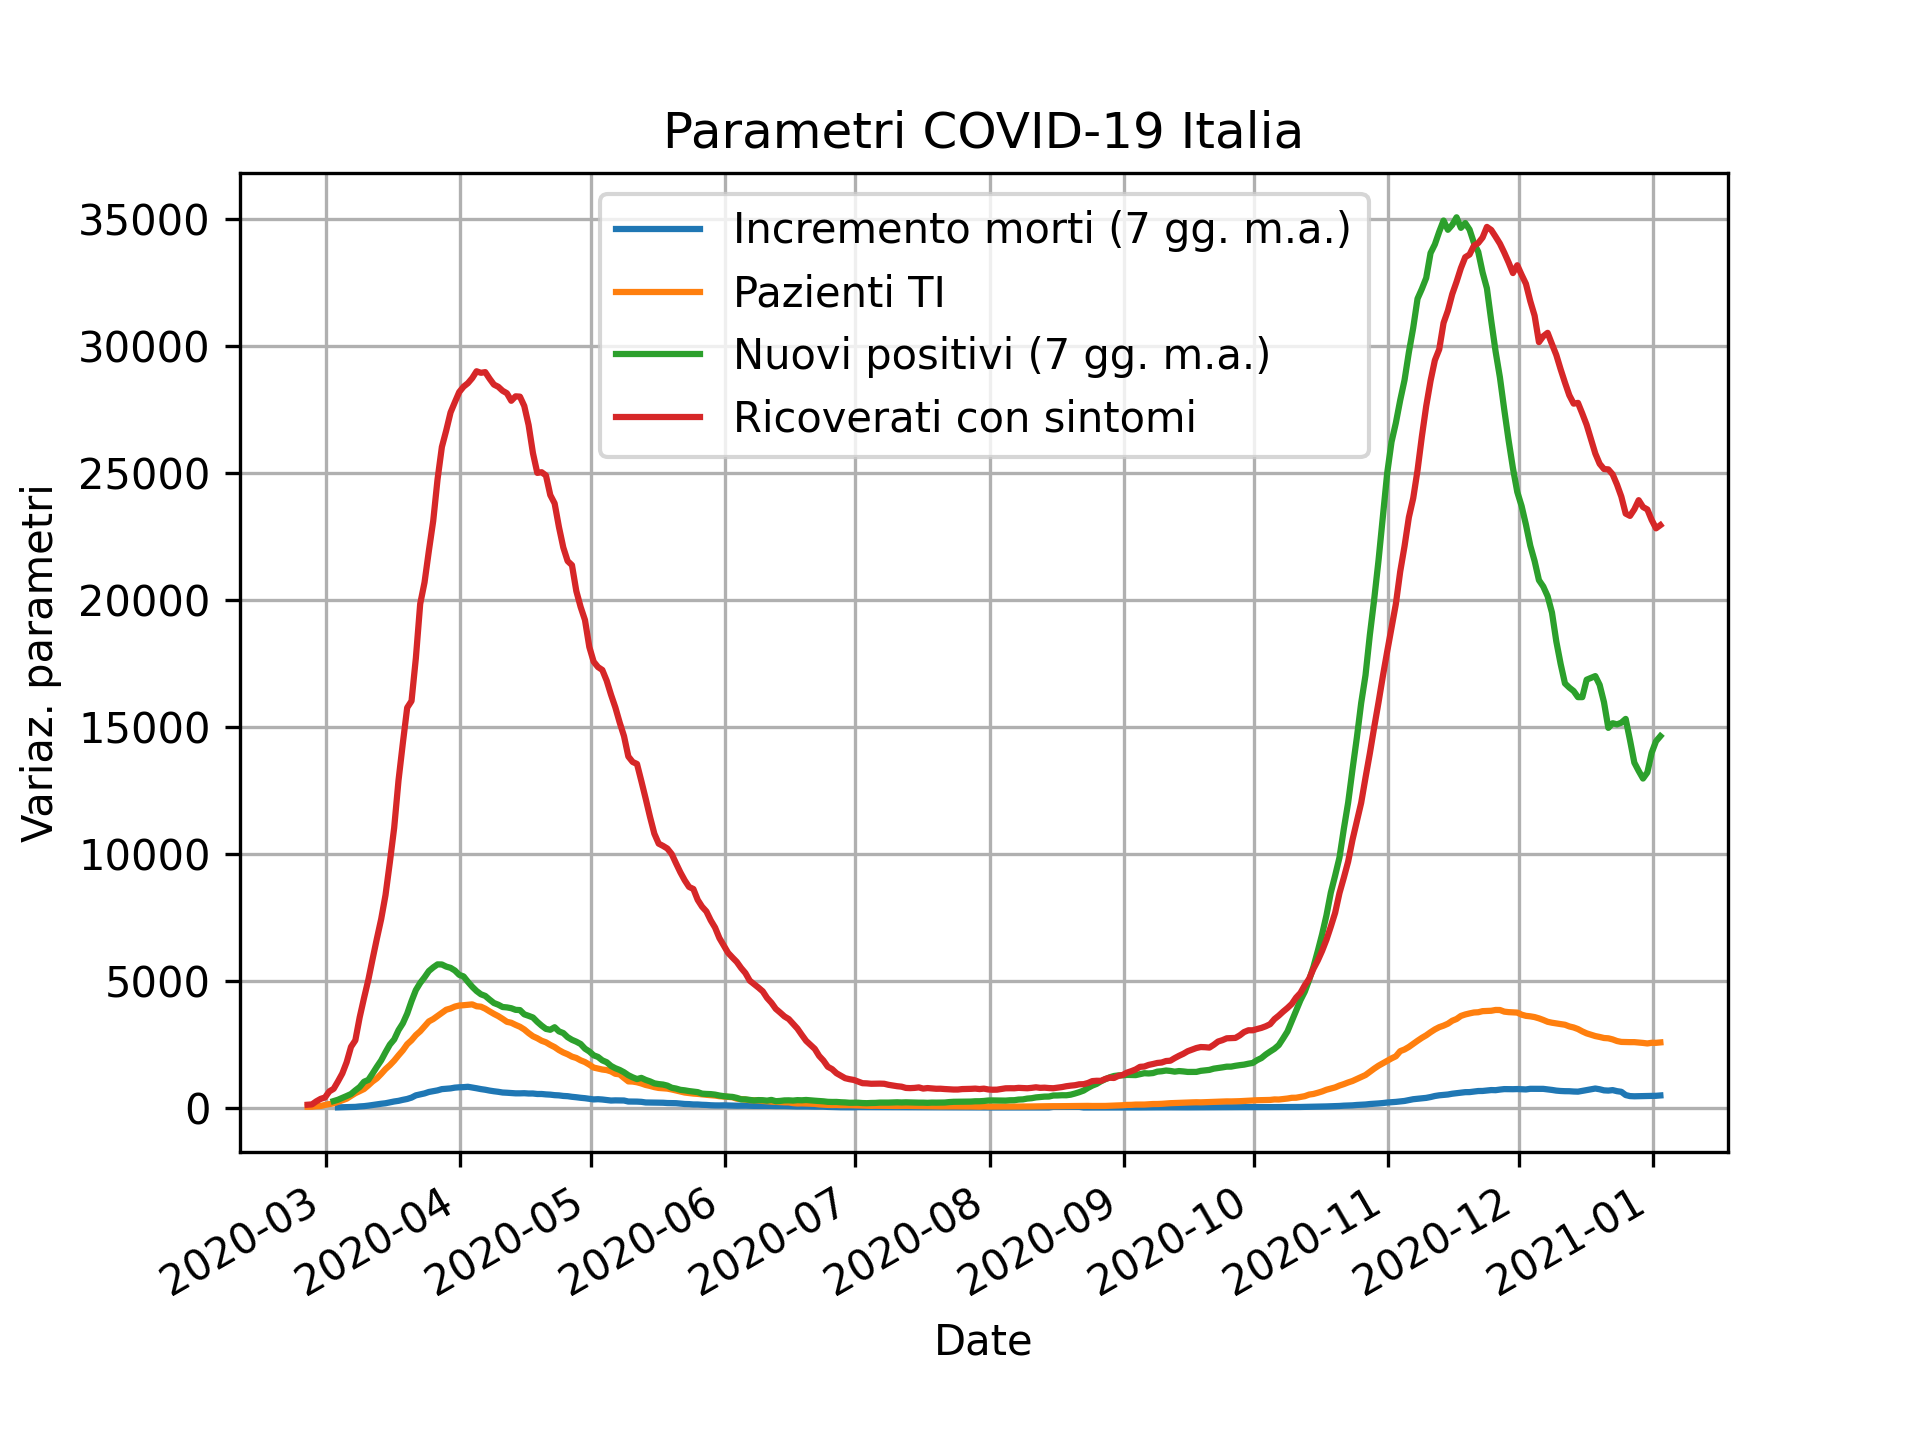
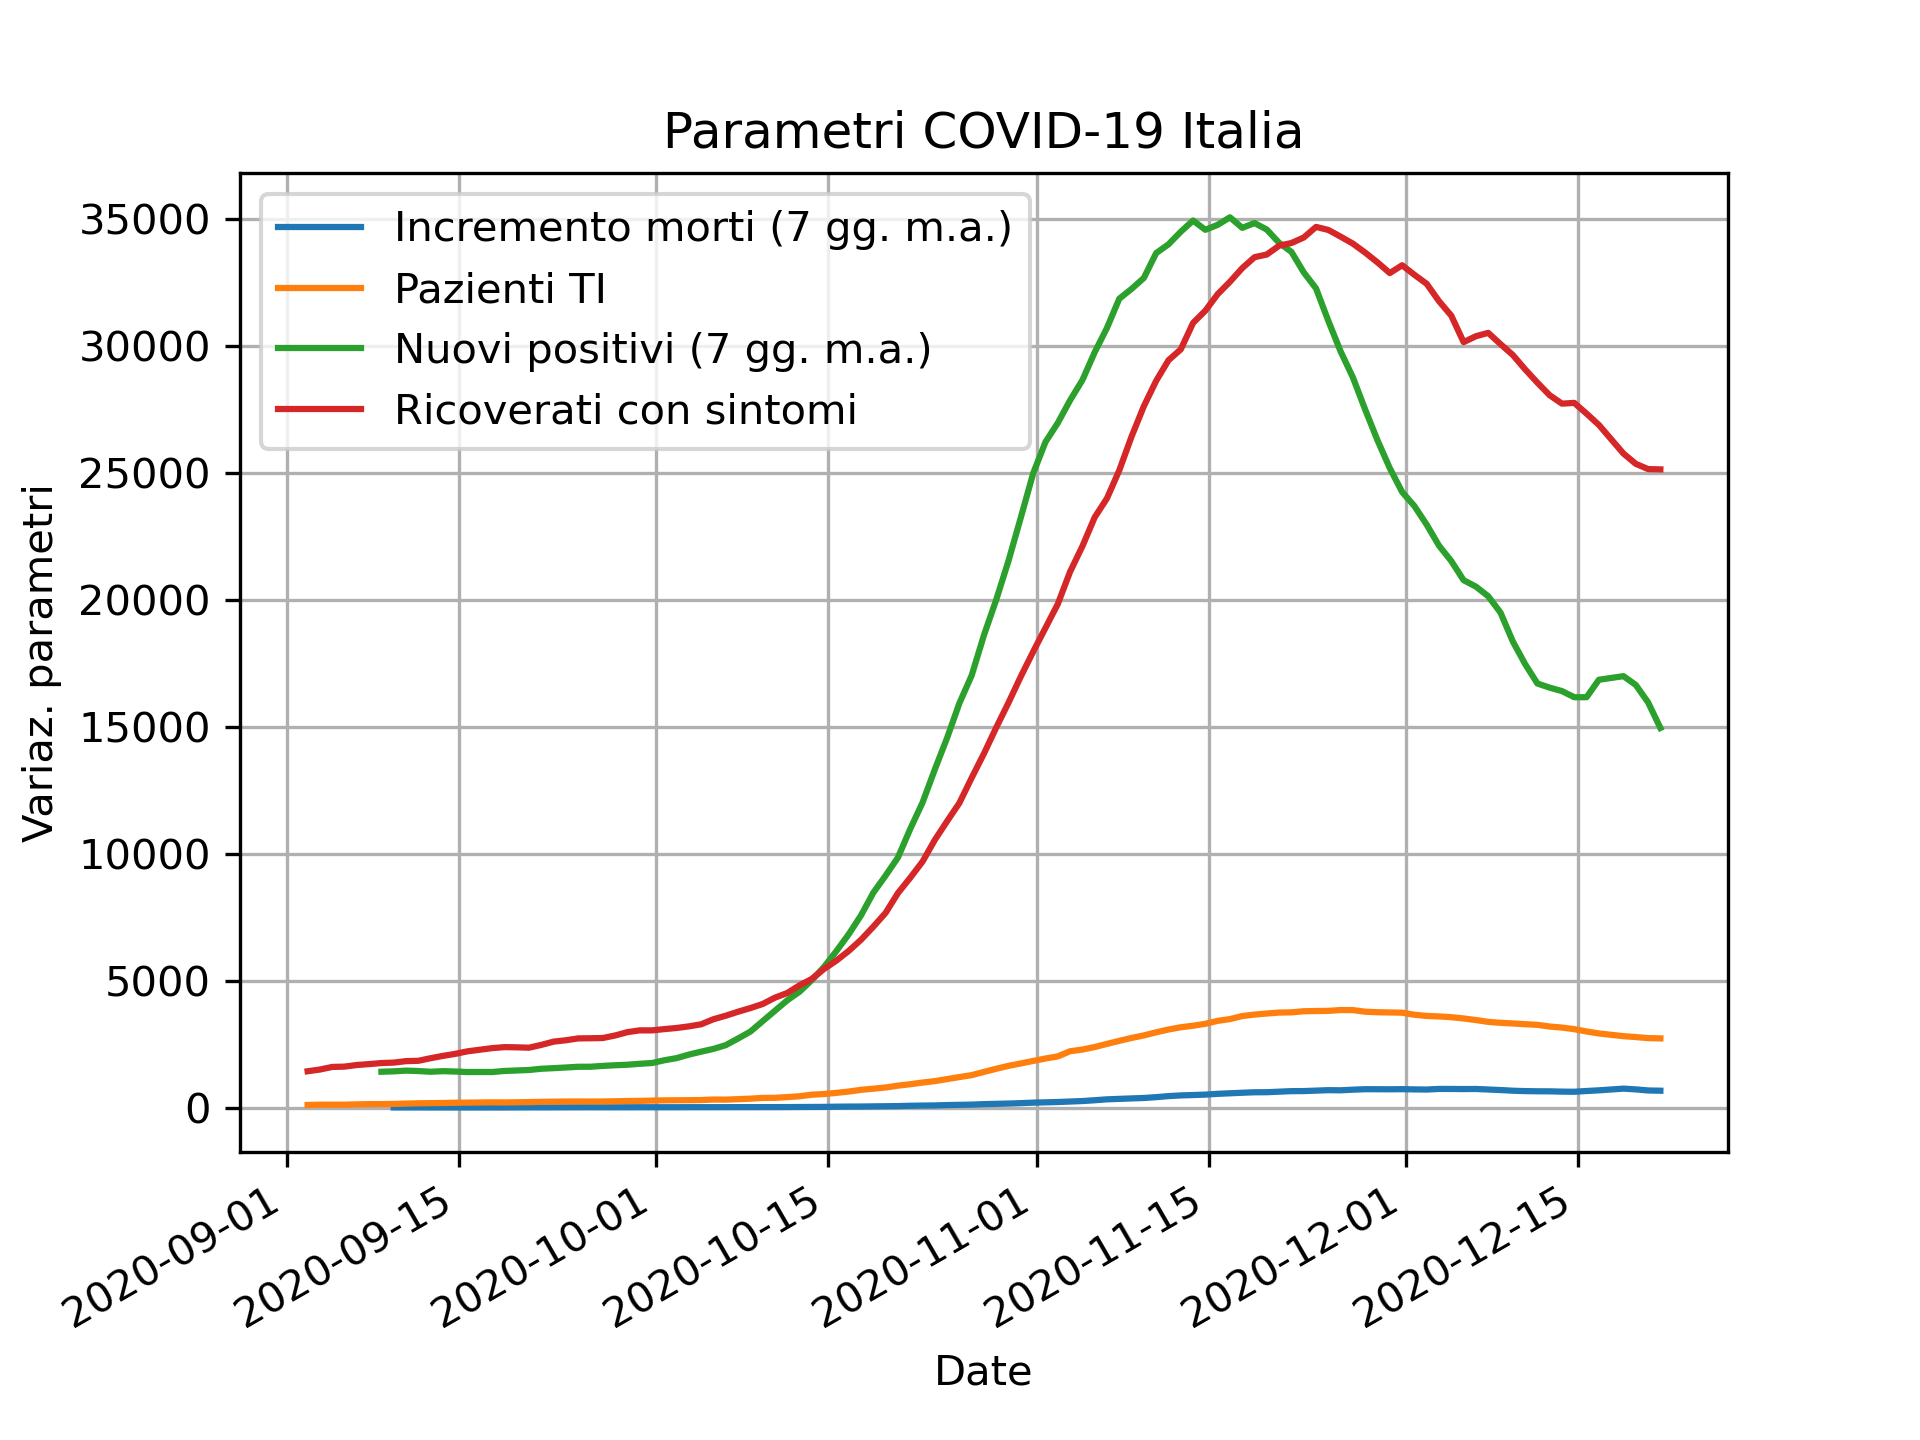
Start charts from September

diff --git a/regions/analysis.py b/regions/analysis.py
@@ -54,6 +54,9 @@ def extract_single_region_data(region):
     region_df = region_df.reset_index()
     region_df = region_df.drop('index', 1)
 
+    # Filter data from September
+    region_df = region_df[region_df['data'] > '2020-09-01']
+
     # Adds TI occupation data
     region_df['occupazione_ti'] = region_df['terapia_intensiva'] / ti_places[region]
 
@@ -128,14 +131,10 @@ def compute_positivity_per_regions(save_image=False, show=False):
     regions = extract_regions_of_interest()
 
     for region_name, region in regions.items():
-        # filter data from July
-        region_filtered = region[region['data'] > '2020-07-01']
-        dates, pos = compute_x_days_mov_average(region_filtered, 'tasso_positivita', 7)
+        dates, pos = compute_x_days_mov_average(region, 'tasso_positivita', 7)
         plt.plot(dates, pos, label=region_name)
 
-    # Filter data from July
-    national_df_filtered = national_df[national_df['data'] > '2020-07-01']
-    dates, pos = compute_x_days_mov_average(national_df_filtered, 'tasso_positivita', 7)
+    dates, pos = compute_x_days_mov_average(national_df, 'tasso_positivita', 7)
     plt.plot(dates, pos, alpha=0.5, linestyle=':', label="Italia")
 
     plt.gca().yaxis.set_major_formatter(mtick.PercentFormatter(xmax=1))

diff --git a/provinces/analysis.py b/provinces/analysis.py
@@ -53,6 +53,9 @@ def extract_single_province_data(province):
     province_df = province_df.reset_index()
     province_df = province_df.drop('index', 1)
 
+    # Filter data from September
+    province_df = province_df[province_df['data'] > '2020-09-01']
+
     # Add data 'incremento casi', scale per 100000 inhabitants
     province_df['incremento_casi'] = province_df['totale_casi'].diff()
     province_df = province_df[province_df['incremento_casi'] > 0]

diff --git a/national/analysis.py b/national/analysis.py
@@ -40,6 +40,9 @@ def extract_national_data(path='./GvtOpenData/dati-andamento-nazionale'):
     national_df = national_df.reset_index()
     national_df = national_df.drop('index', 1)
 
+    # Filter data from September
+    national_df = national_df[national_df['data'] > '2020-09-01']
+
     # Adds TI occupation data
     national_df['occupazione_ti'] = national_df['terapia_intensiva'] / ti_places
 
